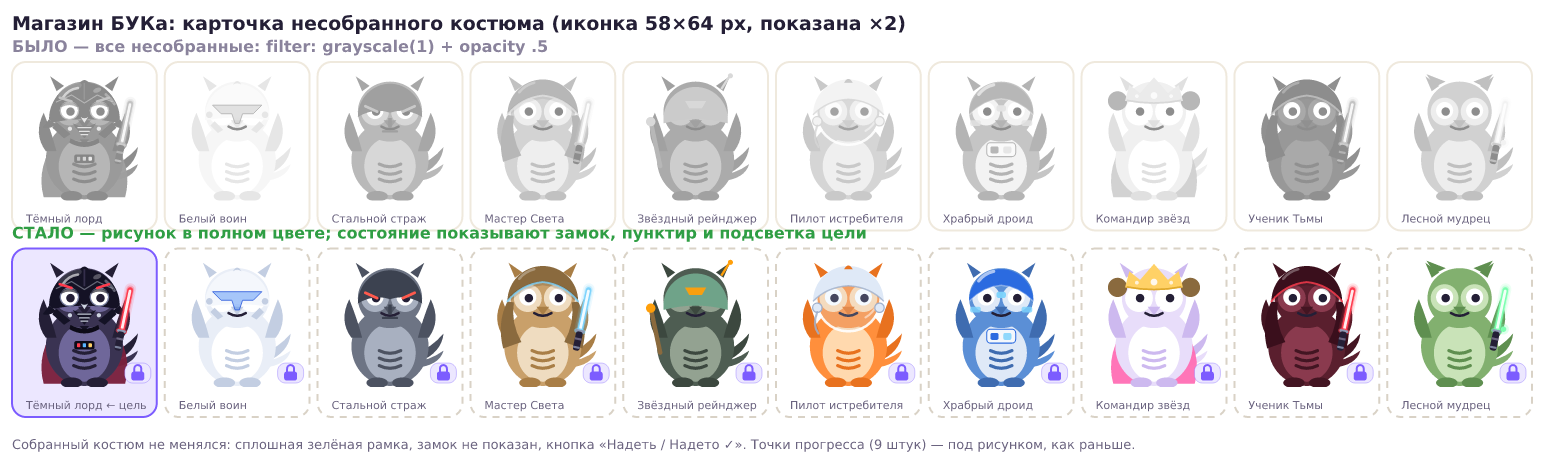
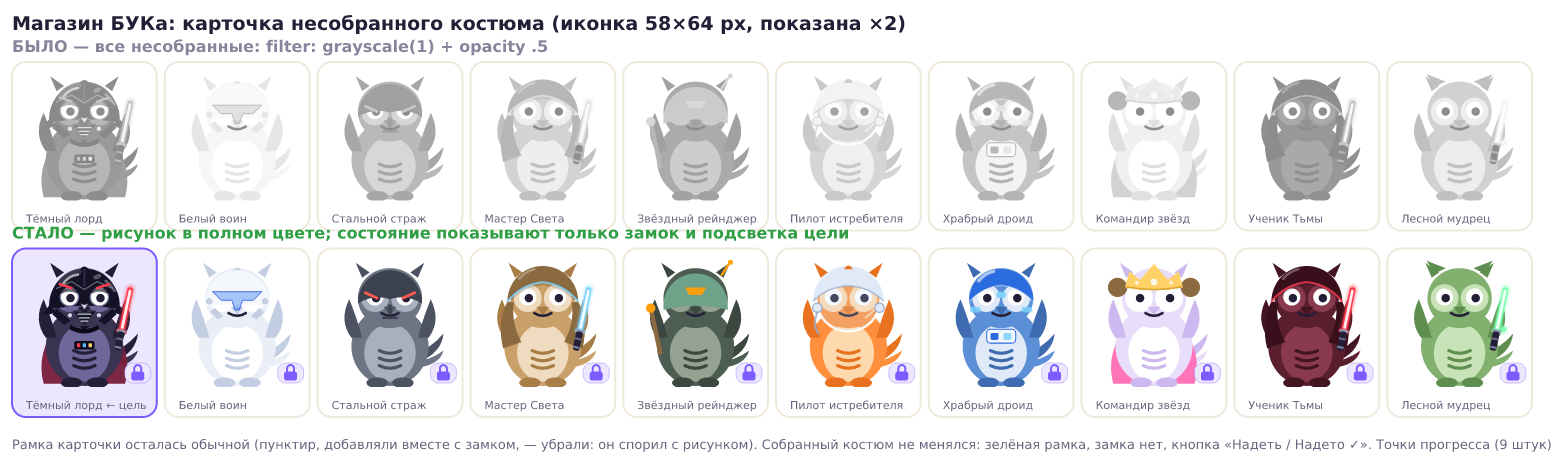
fix(shop): несобранный костюм — маркером остаётся только замок
Пунктирную рамку .costume-card:not(.owned), добавленную вместе с замком, сняли
по решению пользователя: рамка спорила с рисунком, а состояние «ещё не собран»
уже показывает 🔒 на иконке. Подсветка текущей цели (.costume-card.current)
остаётся — она про «куда тапать», а не про блокировку.

Заодно: из .costume-card.current убран border-style: solid — он был нужен только
чтобы перебить пунктир, теперь это лишняя строка. Тесты и страж по app.css не
затронуты (они следят за цветом, а не за рамкой); макет «было → стало»
перерисован без пунктира.

Changed region(s): [[0.0, 0.9333, 1.0, 0.9634], [0.3402, 0.4817, 0.5567, 0.5419]]

diff --git a/src/styles/app.css b/src/styles/app.css
@@ -2353,7 +2353,8 @@ p {
 /* Костюм ещё не собран. Раньше здесь стояло filter: grayscale(1) + opacity .5,
    и ребёнок видел ряд серых силуэтов: выбрать «тот самый» костюм было нельзя,
    цвета были видны только у уже собранного. Теперь рисунок всегда в полном цвете,
-   а «ещё не надет» показывают замок на иконке и пунктир карточки. */
+   а «ещё не надет» показывает только замок на иконке — рамка карточки остаётся
+   обычной (пунктир пробовали, он спорит с рисунком и ничего не добавляет). */
 .pz-locked {
   position: relative;
 }
@@ -2369,12 +2370,8 @@ p {
   background: var(--primary-soft);
   border: 1px solid rgba(124, 92, 255, 0.28);
 }
-.costume-card:not(.owned) {
-  border-style: dashed;
-}
 /* то, что собирается прямо сейчас, — подсвечено, а не приглушено */
 .costume-card.current {
-  border-style: solid;
   border-color: var(--primary);
   background: var(--primary-soft);
 }

diff --git a/tests/puzzles-ui.test.tsx b/tests/puzzles-ui.test.tsx
@@ -4,8 +4,8 @@
 //  • 9-й фрагмент собирает костюм: праздничный блок, костюм надет, сборка
 //    продолжается следующим костюмом;
 //  • магазин: сетка из 10 карточек, точки прогресса, «Собирать» меняет цель,
-//    «Надеть»/«Надето ✓» переключают костюм, несобранные — помечены замком и
-//    пунктиром, но рисуются в полном цвете (обесцвечивание убрали 2026-10-03);
+//    «Надеть»/«Надето ✓» переключают костюм, несобранные — помечены замком, но
+//    рисуются в полном цвете (обесцвечивание убрали 2026-10-03);
 //  • перелив: вся коллекция собрана → кристаллы вместо фрагмента;
 //  • «Повторение» фрагментов не даёт (проверка привязки в LessonScreen).
 // Блок запускается из tests/smoke.test.tsx последним: сам сеет профиль и пазлы.

diff --git a/docs/PLAN.md b/docs/PLAN.md
@@ -1221,10 +1221,12 @@ PWA, состояние и хранилище) внесены исправлен
   `filter: grayscale(1)` + `opacity: .5` — ребёнок видел ряд серых силуэтов, и цвета
   (главное, ради чего костюм хочется) были видны только у уже собранного.
 * **Сделано:** обесцвечивание убрано целиком — карточка недоступного костюма рисуется
-  в полном цвете, «ещё не надет» теперь показывают замок `🔒` на иконке
-  (`.pz-locked::after`, подложка `--primary-soft`, работает и в тёмной теме) и пунктирная
-  рамка `.costume-card:not(.owned)`. Класс `pz-locked` оставлен: он и маркер состояния,
-  и точка привязки для замка.
+  в полном цвете, «ещё не надет» показывает замок `🔒` на иконке
+  (`.pz-locked::after`, подложка `--primary-soft`, работает и в тёмной теме).
+  Класс `pz-locked` оставлен: он и маркер состояния, и точка привязки для замка.
+  Пунктирную рамку `.costume-card:not(.owned)` добавляли вместе с замком и в тот же
+  день сняли по решению пользователя: рамка спорила с рисунком, а состояние уже
+  показывал замок: оставили один маркер, а не три.
 * **Заодно — выделение текущей цели:** карточка костюма, который ребёнок собирает
   прямо сейчас, получает `.costume-card.current` (сплошная рамка `--primary` + светлая
   подложка) — её видно в сетке 2×5 сразу. `.shop-item.on` (надетый) не конфликтует:
@@ -1259,7 +1261,8 @@ PWA, состояние и хранилище) внесены исправлен
 * **Открытые задачи по приоритету:**
   0. **Магазин: несобранные костюмы — в полном цвете** (замечание пользователя,
      2026-10-03, см. «часть 7»): обесцвечивание `.pz-locked` убрано, состояние держат
-     замок `🔒` + пунктир карточки + подсветка `.current` у текущей цели. Смоук следит
+     замок `🔒` на иконке + подсветка `.current` у текущей цели (пунктир рамки снят —
+     лишний маркер). Смоук следит
      за этим тремя проверками, включая страж по тексту `app.css` — «вернуть grayscale»
      не даст упасть тихо. Правку в релиз пока не выкатывали (версия 0.9.0), PWA-кэш
      обновится вместе со следующим билдом на Pages.
